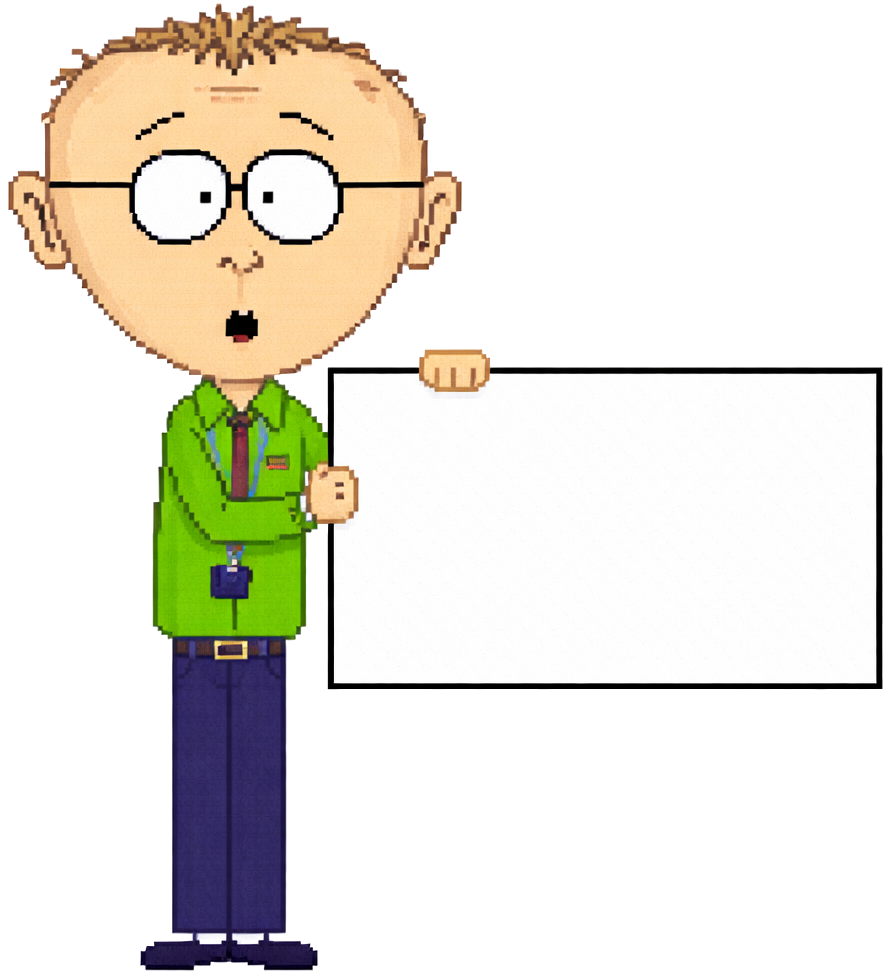
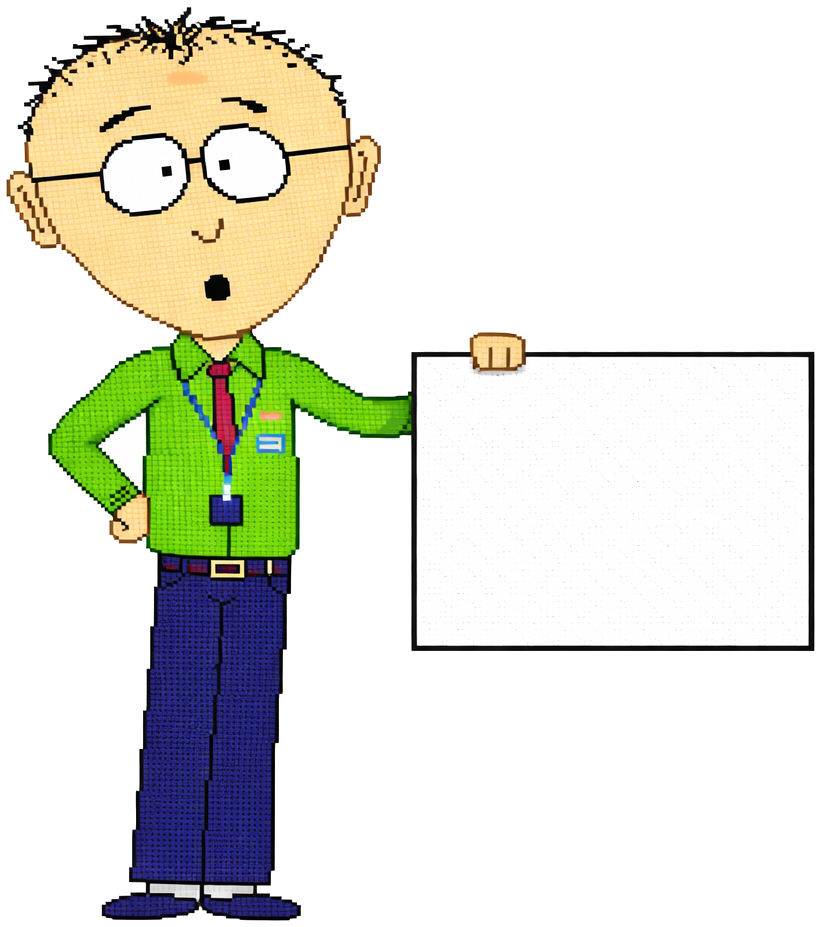
fixed character positionings, added new sprites and allowed for xyz coordinates of numbers

Changed region(s): [[0.0, 0.0, 1.0, 0.9968]]

diff --git a/server.js b/server.js
@@ -148,10 +148,11 @@ function renderSouthParkCounter({
   const paddingY = 0;
 
   const characterImages = [
-    '/assets/cartman.png',
-    '/assets/mr mackey.png',
     '/assets/stan.png',
+    '/assets/kyle.png',    
+    '/assets/mr mackey.png',
     '/assets/kenny.png',
+    '/assets/cartman.png',
     '/assets/timmy.png',
     '/assets/wendy.png',
   ];
@@ -163,6 +164,7 @@ function renderSouthParkCounter({
     '/assets/kenny.png': 1.0,
     '/assets/timmy.png': 1.2,
     '/assets/wendy.png': 1.0,
+    '/assets/kyle.png': 1.1,
   };
 
   let totalWidth = paddingX * 2;
@@ -197,11 +199,22 @@ function renderSouthParkCounter({
 
   const characterPositions = {
     '/assets/cartman.png': { x: 0.68, y: 0.7 },
-    '/assets/mr mackey.png': { x: 0.63, y: 0.57 },
+    '/assets/mr mackey.png': { x: 0.67, y: 0.57 },
     '/assets/stan.png': { x: 0.7, y: 0.7 },
     '/assets/kenny.png': { x: 0.7, y: 0.7 },
-    '/assets/timmy.png': { x: 0.76, y: 0.49 },
-    '/assets/wendy.png': { x: 0.68, y: 0.7 },
+    '/assets/timmy.png': { x: 0.75, y: 0.49 },
+    '/assets/wendy.png': { x: 0.69, y: 0.7 },
+    '/assets/kyle.png': { x: 0.75, y: 0.56 },
+  };
+
+  const characterRotations = {
+    '/assets/cartman.png': 0,
+    '/assets/mr mackey.png': 0,
+    '/assets/stan.png': 0,
+    '/assets/kenny.png': 0,
+    '/assets/timmy.png': 0,
+    '/assets/wendy.png': 0,
+    '/assets/kyle.png': 5,
   };
 
   let digitsSvg = '';
@@ -210,11 +223,18 @@ function renderSouthParkCounter({
     const isDigit = /[0-9]/.test(char);
     const imgHref = characterImages[idx % characterImages.length];
     const pos = characterPositions[imgHref] || { x: 0.5, y: 0.75 };
+    const rotation = characterRotations[imgHref] || 0;
     const charScale = characterScales[imgHref] || 1.0;
     
     const charWidth = digitWidth * charScale;
     const charHeight = digitHeight * charScale;
     const charBaseY = bottomAlignY - charHeight;
+    
+    const textX = charWidth * pos.x;
+    const textY = charHeight * pos.y;
+    const textTransform = rotation !== 0 
+      ? `rotate(${rotation} ${textX} ${textY})`
+      : '';
 
     digitsSvg += `
       <g transform="translate(${currentX}, ${charBaseY})">
@@ -227,8 +247,9 @@ function renderSouthParkCounter({
           preserveAspectRatio="meet"
         />
         <text
-          x="${charWidth * pos.x}"
-          y="${charHeight * pos.y}"
+          x="${textX}"
+          y="${textY}"
+          transform="${textTransform}"
           text-anchor="middle"
           dominant-baseline="middle"
           font-family="'Press Start 2P', 'VT323', 'Courier New', monospace"
